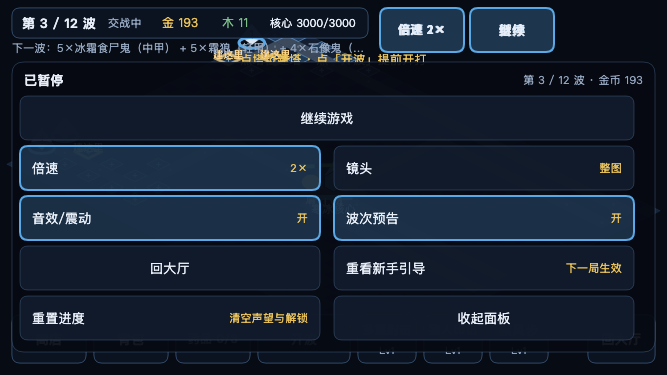
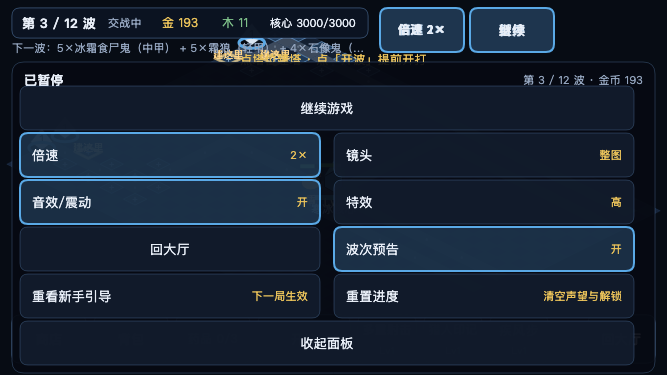
feat(minigame): 屏幕常亮 + §10.7 的内存告警降级（顺手把 effects 那一格补成真的）
两条「真机上会出事、本地不接也能跑」的：

- 屏幕常亮：一局 TD 十几分钟、盯塔时可能一直不碰屏幕，系统按默认超时锁屏。
  启动时 wx.setKeepScreenOn(true)（浏览器没有对应能力，安静跳过）
- 内存告警：§10.7 早就写好「告警来了自动降级」，浏览器版也接了 wx.onMemoryWarning，
  但小游戏入口从来没接——微信抛了没人理，后面就是直接杀进程。现在接到同一份设置上
  （settings.effects = 'low'）并提示一句

顺带把 §5.2.4 当时有意不摆的 effects 那一格补成真的：它真的关掉脉冲（§116 hintPulseAlpha），
面板里能看、也能从内存告警那一档改回来（不然自动降级是单行道）。面板排成 6 行（44+3，再松就出画布）。

假 wx 补 onMemoryWarning / setKeepScreenOn 记账 + canvas 记录样式赋值（脉冲差别只能从样式上看）。
用例 +1 闭环，两条变异反证。npm test 323 → 324；minigame 6 条全过；主包 18 模块 / 387.2 KB。

diff --git a/src/minigame/battle.js b/src/minigame/battle.js
@@ -484,12 +484,14 @@ export function layoutBag(m, ui = {}) {
 /**
  * 暂停面板（单机局才有意义：联机「不假装暂停」是 §114 那条口径；小游戏现在只有单机，所以这是真暂停）。
  *
- * 三个开关都**真的接在东西上**，不是摆样子：
- *   倍速　→ 帧循环按 1× / 2× 推内核；
- *   镜头　→ `settings.tdFitAll`（整图可见 / 放大到 settings.zoom），与浏览器版同一份设置；
- *   震动　→ `settings.sfx` 经 `feedback.js` 的 `wx.vibrateShort`（同一份设置里的那个开关）。
- * **没摆的两项**：`effects`（低特效档关的是飘字与脉冲，而小游戏这一版还没画飘字——摆了就是假选项）；
- * 音效那一半要等防守模式的预警音（TD 本来就没有提示音）。
+ * 每一格都**真的接在东西上**，不是摆样子：
+ *   倍速　　→ 帧循环按 1× / 2× 推内核；
+ *   镜头　　→ `settings.tdFitAll`（整图可见 / 放大到 settings.zoom），与浏览器版同一份设置（仅 TD）；
+ *   摇杆　　→ `settings.stick`（固定 / 浮动），仅防守（§1.9.3）；
+ *   音效/震动 → `settings.sfx`：提示音走 `audio.js`、短震动走 `feedback.js` 的 `wx.vibrateShort`；
+ *   特效　　→ `settings.effects`：低档关掉脉冲（新手引导塔位高亮的呼吸效果，§116）；
+ *   波次预告 / 自动拾取 → 各自模式专有的那一格（§154）。
+ * 行距 47（44 高 + 3 缝）是这一屏的**上限**：再松就放不下第 6 行了（333 起的「收起面板」会出画布）。
  */
 export function layoutPause(m, ui = {}) {
   const rows = [];
@@ -500,24 +502,32 @@ export function layoutPause(m, ui = {}) {
    * 反过来「摇杆固定 / 浮动」是防守专用的（TD 没有摇杆，§1.9.1）。两边各占同一个格。
    */
   const defense = m.mode === 'defense';
-  rows.push({ id: 'resume', label: '继续游戏', x: 20, y: 96, w: 614, h: 44, action: { type: 'resume' } });
+  rows.push({ id: 'resume', label: '继续游戏', x: 20, y: 86, w: 614, h: 44, action: { type: 'resume' } });
   rows.push({
     id: 'speed', label: '倍速', sub: ui.rate === 2 ? '2×' : '1×',
-    x: 20, y: 146, w: 300, h: 44, on: ui.rate === 2, action: { type: 'speed' },
+    x: 20, y: 133, w: 300, h: 44, on: ui.rate === 2, action: { type: 'speed' },
   });
   rows.push(defense
     ? {
       id: 'stick', label: '摇杆', sub: sv.stick === 'floating' ? '浮动' : '固定',
-      x: 334, y: 146, w: 300, h: 44, on: sv.stick === 'floating', action: { type: 'stick' },
+      x: 334, y: 133, w: 300, h: 44, on: sv.stick === 'floating', action: { type: 'stick' },
     }
     : {
       id: 'camera', label: '镜头', sub: sv.tdFitAll === false ? '放大' : '整图',
-      x: 334, y: 146, w: 300, h: 44, on: sv.tdFitAll === false, action: { type: 'camera' },
+      x: 334, y: 133, w: 300, h: 44, on: sv.tdFitAll === false, action: { type: 'camera' },
     });
   rows.push({
     // 这一格同时管**提示音**（§2.6 的回防预警）与短震动（§1.9.2），所以标签要与浏览器版一样写全
     id: 'sfx', label: '音效/震动', sub: sv.sfx === false ? '关' : '开',
-    x: 20, y: 196, w: 300, h: 44, on: sv.sfx !== false, action: { type: 'sfx' },
+    x: 20, y: 180, w: 300, h: 44, on: sv.sfx !== false, action: { type: 'sfx' },
+  });
+  /**
+   * 「特效」这一格现在**不是假选项**了：低档真的关掉脉冲（§116 的 `hintPulseAlpha`），
+   * 而且 §10.7 的内存告警会把这一档自动切过来——玩家得能看见、也能自己改回去。
+   */
+  rows.push({
+    id: 'effects', label: '特效', sub: sv.effects === 'low' ? '低' : '高',
+    x: 334, y: 180, w: 300, h: 44, on: sv.effects === 'low', action: { type: 'effects' },
   });
   /**
    * §154：这一格也按模式取舍——TD 摆「波次预告」（§8.3：开波前先看这一波是什么），
@@ -526,24 +536,24 @@ export function layoutPause(m, ui = {}) {
   rows.push(defense
     ? {
       id: 'autoPickup', label: '自动拾取', sub: sv.autoPickup === false ? '关' : '开',
-      x: 334, y: 196, w: 300, h: 44, on: sv.autoPickup !== false, action: { type: 'autoPickup' },
+      x: 334, y: 227, w: 300, h: 44, on: sv.autoPickup !== false, action: { type: 'autoPickup' },
     }
     : {
       id: 'wavePreview', label: '波次预告', sub: sv.showWavePreview === false ? '关' : '开',
-      x: 334, y: 196, w: 300, h: 44, on: sv.showWavePreview !== false, action: { type: 'wavePreview' },
+      x: 334, y: 227, w: 300, h: 44, on: sv.showWavePreview !== false, action: { type: 'wavePreview' },
     });
-  rows.push({ id: 'lobby', label: '回大厅', x: 20, y: 246, w: 300, h: 44, action: { type: 'lobby' } });
+  rows.push({ id: 'lobby', label: '回大厅', x: 20, y: 227, w: 300, h: 44, action: { type: 'lobby' } });
   // §153 的「重看」：门槛只认 `profile.tutorialDone` 这一个标记，「重看」就是把它置回 false（下一局再挂）
   rows.push({
-    id: 'replayTutorial', label: '重看新手引导', sub: '下一局生效', x: 334, y: 246, w: 300, h: 44,
+    id: 'replayTutorial', label: '重看新手引导', sub: '下一局生效', x: 20, y: 274, w: 300, h: 44,
     action: { type: 'replayTutorial' },
   });
   // 「重置进度」与「收起面板」并排放在最后一行：前者不可逆（§1.9.2），所以点一次只转到「再点一次确认」
   rows.push({
     id: 'resetProgress', label: ui.resetArmed ? '再点一次确认重置' : '重置进度', sub: ui.resetArmed ? '' : '清空声望与解锁',
-    x: 20, y: 296, w: 300, h: 44, on: !!ui.resetArmed, action: { type: 'resetProgress' },
+    x: 334, y: 274, w: 300, h: 44, on: !!ui.resetArmed, action: { type: 'resetProgress' },
   });
-  rows.push({ id: 'close', label: '收起面板', x: 334, y: 296, w: 300, h: 44, action: { type: 'close' } });
+  rows.push({ id: 'close', label: '收起面板', x: 20, y: 321, w: 614, h: 44, action: { type: 'close' } });
   return {
     kind: 'pause',
     title: '已暂停',
@@ -552,7 +562,7 @@ export function layoutPause(m, ui = {}) {
     hint: defense
       ? `第 ${m.assault?.round ?? 0} 轮 · 金币 ${Math.round(m.gold)}`
       : `第 ${m.wave.index} / ${m.length === 'long' ? 30 : 12} 波 · 金币 ${Math.round(m.gold)}`,
-    box: { x: 12, y: 62, w: 643, h: 290 },
+    box: { x: 12, y: 62, w: 643, h: 311 },
     rows, byId: Object.fromEntries(rows.map((r) => [r.id, r])),
   };
 }

diff --git a/src/minigame/game.js b/src/minigame/game.js
@@ -10,7 +10,9 @@ import {
   enhanceItem, potionCount, repairTower, reviveNow, sellItem, sellTower, setPriority, skillLevel,
   startWaveEarly, towerAtSlot, update, upgradeTower, usePotion,
 } from '../match.js';
-import { isMiniGame, onHide, onTouch, storage, viewport } from '../platform.js';
+import {
+  isMiniGame, keepScreenOn, onHide, onMemoryWarning, onTouch, storage, viewport,
+} from '../platform.js';
 import { clearSave, hasSave, loadFromStorage, saveToStorage } from '../save.js';
 import {
   clearProfile, isFirstRun, loadProfile, mapLocked, markTutorialDone, recordResult, reviveMulOf, saveProfile,
@@ -117,6 +119,22 @@ export function startMinigame({ requestAnimationFrame: raf = globalThis.requestA
    * 同一个 `settings.sfx` 开关管着它和震动（浏览器版那颗开关的标签就是「音效/震动」）。
    */
   const cue = createCue({ enabled: () => settings.sfx !== false });
+  /**
+   * 玩的时候别让屏幕自己熄掉：一局 TD 十几分钟，盯塔的时候可能一直不碰屏幕，
+   * 系统按默认超时锁屏比任何 bug 都劝退（小游戏里是 `wx.setKeepScreenOn`）。
+   */
+  keepScreenOn(true);
+  /**
+   * §10.7 的内存告警：微信在内存吃紧时抛 `wx.onMemoryWarning`，接了才有机会主动降级——
+   * 与浏览器版**同一套设置**（`settings.effects = 'low'`：关掉脉冲那类装饰，保住帧率），
+   * 并且提示一句，别让玩家以为画面坏了。
+   */
+  onMemoryWarning(() => {
+    const before = settings.effects;
+    settings = { ...settings, effects: 'low' };
+    try { saveSettings(settings); } catch { /* 存不了就只在这一次生效 */ }
+    if (before !== 'low' && battle) note(battle, '内存告警：已切到低特效（可在暂停面板里改回）', 3);
+  });
 
   /** 镜头设置（§2.5）：整图可见 = `renderer.fit()`；放大 = 以核心为中心用 `settings.zoom` */
   const applyCamera = (b) => {
@@ -563,6 +581,13 @@ export function startMinigame({ requestAnimationFrame: raf = globalThis.requestA
         note(b, settings.showWavePreview ? '波次预告已开' : '波次预告已关', 1.4);
         return action;
       }
+      case 'effects': {
+        // §116 的低特效档：关掉脉冲那类装饰（保帧率）。§10.7 的内存告警也会把它自动切过来
+        settings = { ...settings, effects: settings.effects === 'low' ? 'high' : 'low' };
+        saveSettings(settings);
+        note(b, settings.effects === 'low' ? '特效：低（关脉冲）' : '特效：高', 1.4);
+        return action;
+      }
       case 'autoPickup': {
         // §12.5：防守走到掉落物上自动捡。内核读的是 `m.autoPickup`，所以改了要**立刻**写进去
         settings = { ...settings, autoPickup: settings.autoPickup === false };
@@ -829,7 +854,9 @@ export function startMinigame({ requestAnimationFrame: raf = globalThis.requestA
       b.layout = layoutBattle(model);
       // `hintSlots`：引导第一步/第二步在战场上圈出「建这里」（render.js 本来就有这段，直接复用）
       b.renderer.draw({
-        m: b.m, selectedSlot: null, selectedTower: null, localSlot: 0, now: b.m.time, pulses: false,
+        // §116：低特效档关掉脉冲（新手引导塔位高亮那层呼吸）；高档才让它随时间变化
+        m: b.m, selectedSlot: null, selectedTower: null, localSlot: 0, now: b.m.time,
+        pulses: settings.effects !== 'low',
         hintSlots: b.tutorial?.hintSlotCount() ?? 0,
       });
       // renderer 可能重设过变换，这里再对齐一次（并按大屏把 HUD 居中）

diff --git a/src/platform.js b/src/platform.js
@@ -184,6 +184,27 @@ export function onHide(fn) {
   }
 }
 
+/**
+ * §10.7 的**内存告警**：微信在内存吃紧时会抛 `wx.onMemoryWarning`，接了它就有机会主动降级；
+ * 不接的话系统只会在后面直接杀掉进程。浏览器没有这个事件（那边留了
+ * `__frostfall.simulateMemoryWarning()` 给冒烟用），所以这里安静跳过。
+ */
+export function onMemoryWarning(fn) {
+  try { wxApi()?.onMemoryWarning?.(fn); } catch { /* 老基础库没有这个 API：只是少一层保护 */ }
+}
+
+/**
+ * 玩的时候别让屏幕自己熄掉（小游戏里是 `wx.setKeepScreenOn`）。
+ * 一局 TD 十几分钟、盯塔的时候可能一直不碰屏幕，系统照默认超时锁屏——那比任何 bug 都劝退。
+ * 浏览器没有对应能力（页面自己不动），安静跳过。
+ */
+export function keepScreenOn(on = true) {
+  try {
+    if (isMiniGame() && wxApi()?.setKeepScreenOn) wxApi().setKeepScreenOn({ keepScreenOn: on });
+    return true;
+  } catch { return false; }
+}
+
 /* ---------- 触摸 ---------- */
 
 /**

diff --git a/docs/STATUS.md b/docs/STATUS.md
@@ -21,7 +21,7 @@
 ## 2. 一条命令复跑全部验证
 
 ```bash
-npm test        # 323 项：数值 / 波次 / 经济 / 装备 / 天赋 / 技能细节 / 存档 / 联机 / 快速匹配 / 触觉反馈 / 摇杆指令 / 溅射衰减 / 药品计数 / 解锁来源与流水 / 野外区分区 / 亚格渲染 / 克制提示 / 局内资源不外流 / 仇恨 1 秒 / 野外区文案 / 战绩分模式 / 面板可见性 / 浮层收起 / 房间码提示 / 空房保留窗口 / 联机指令出口（handler 逐个查）/ 畸形指令与限速 / 克制表与枚举对齐 / 联机镜像不落本地存档（§113） / 大厅按模式给选项（§115：防守没有「局内时长」） / 低特效档真的关脉冲（§116） / 怪物光环按半径结算（§117） / Boss 光环按地图开关（§118） / 逻辑帧步长只有一个定义（§119） / 协议版本两侧校验（§120） / 畸形 URL 参数不崩服务端（§121） / 别人的名字不执行（§122） / 名字长度截断（§122） / 畸形指令值不崩服务端（§123） / 房间码不可枚举（§124） / 名单不广播 uid（§125） / 调试钩子默认关（§126）与「只在本地生效」（§197）/  免费期无付费入口（§128） / 联机结算面板也写「声望 +N」（§130） / 通关转无尽的出口（§131） / 精研技能书真的 +1 级（§132） / 狂战药剂真的持续 30 秒（§133） / 防守模式 buff 生效与疾风步移速（§134） / 两模式英雄 tick 职责对齐（§135） / 亡语分裂在防守里也生效（§136） / 防守的怪也吃减速眩晕 DoT（§137） / 防守内容不许带未实现能力（§138） / 「继续上局」只在**真读得出来**时出现（§139 + §204） /  **疾行药剂在两个模式都生效（§144） / **回城冷却进存档且真的走满 30 秒（§147） / **联机修塔真的生效、TD 专属指令在防守房被拒（§148） / **联机结算的伤害占比不为空、防守占比条写中文名（§149） / **结算面板的掉落栏写中文名（§151） / **快速匹配排队时写明「在等」（§152） / **新手引导的门槛与「重看」（§153） / **文案里的数字与数据表对账（§155） / ****临时端口串门与僵尸根因（§157）** / **4★-6★ 图能从大厅选到（§158） / **真机视口下大厅动作行粘底（§159） / **结算面板出口也粘底（§160） / **真机视口下防守 HUD 紧凑排布（§161） / **真机视口下引导条不压操作行（§162） / **联机长局镜像换成 30 波表（§163）/**§130 偶发红改成确定性（§164） / **联机怪物血条分母（§165）** / **联机房英雄职业进配置（§166）** / **浸泡不变量补五项（§167） / **真机视口下防守人体工学（§168）** / **§2.2 地图表逐列对账（§169） / **其余五张数值表逐列对账（§170） / **真机上的双指缩放与双击回核心（§171） / **把量出的偏差写回设计文档（§172） / **复跑三张数字表（§173） / **协议消息类型两边都要有人用（§174） / **零读者的导出扫干净（§175）** / **用到的 class 都有样式规则（§176）** / **客户端开局参数归一化（§177：坏 URL 不白屏 + 不污染档案）** / **缺 seed 的房间不再是常数种子（§177）** / **提示音在真机手势里解锁、日志不再谎报（§178）** / **真机手势卫生：连点技能键/长按不再被浏览器抢走（§180）** / **HUD 按安全区收边、不再压进刘海（§181）** / **冒烟的 CDP 请求加上限、不再偶发挂死（§182）** / **存不了档时说一声（§183）** / **大厅里不再偷偷打那一局（§184：不跑模拟、不出怪、不记档）** / **竖屏兜底「请横屏」（§185）**…
+npm test        # 324 项：数值 / 波次 / 经济 / 装备 / 天赋 / 技能细节 / 存档 / 联机 / 快速匹配 / 触觉反馈 / 摇杆指令 / 溅射衰减 / 药品计数 / 解锁来源与流水 / 野外区分区 / 亚格渲染 / 克制提示 / 局内资源不外流 / 仇恨 1 秒 / 野外区文案 / 战绩分模式 / 面板可见性 / 浮层收起 / 房间码提示 / 空房保留窗口 / 联机指令出口（handler 逐个查）/ 畸形指令与限速 / 克制表与枚举对齐 / 联机镜像不落本地存档（§113） / 大厅按模式给选项（§115：防守没有「局内时长」） / 低特效档真的关脉冲（§116） / 怪物光环按半径结算（§117） / Boss 光环按地图开关（§118） / 逻辑帧步长只有一个定义（§119） / 协议版本两侧校验（§120） / 畸形 URL 参数不崩服务端（§121） / 别人的名字不执行（§122） / 名字长度截断（§122） / 畸形指令值不崩服务端（§123） / 房间码不可枚举（§124） / 名单不广播 uid（§125） / 调试钩子默认关（§126）与「只在本地生效」（§197）/  免费期无付费入口（§128） / 联机结算面板也写「声望 +N」（§130） / 通关转无尽的出口（§131） / 精研技能书真的 +1 级（§132） / 狂战药剂真的持续 30 秒（§133） / 防守模式 buff 生效与疾风步移速（§134） / 两模式英雄 tick 职责对齐（§135） / 亡语分裂在防守里也生效（§136） / 防守的怪也吃减速眩晕 DoT（§137） / 防守内容不许带未实现能力（§138） / 「继续上局」只在**真读得出来**时出现（§139 + §204） /  **疾行药剂在两个模式都生效（§144） / **回城冷却进存档且真的走满 30 秒（§147） / **联机修塔真的生效、TD 专属指令在防守房被拒（§148） / **联机结算的伤害占比不为空、防守占比条写中文名（§149） / **结算面板的掉落栏写中文名（§151） / **快速匹配排队时写明「在等」（§152） / **新手引导的门槛与「重看」（§153） / **文案里的数字与数据表对账（§155） / ****临时端口串门与僵尸根因（§157）** / **4★-6★ 图能从大厅选到（§158） / **真机视口下大厅动作行粘底（§159） / **结算面板出口也粘底（§160） / **真机视口下防守 HUD 紧凑排布（§161） / **真机视口下引导条不压操作行（§162） / **联机长局镜像换成 30 波表（§163）/**§130 偶发红改成确定性（§164） / **联机怪物血条分母（§165）** / **联机房英雄职业进配置（§166）** / **浸泡不变量补五项（§167） / **真机视口下防守人体工学（§168）** / **§2.2 地图表逐列对账（§169） / **其余五张数值表逐列对账（§170） / **真机上的双指缩放与双击回核心（§171） / **把量出的偏差写回设计文档（§172） / **复跑三张数字表（§173） / **协议消息类型两边都要有人用（§174） / **零读者的导出扫干净（§175）** / **用到的 class 都有样式规则（§176）** / **客户端开局参数归一化（§177：坏 URL 不白屏 + 不污染档案）** / **缺 seed 的房间不再是常数种子（§177）** / **提示音在真机手势里解锁、日志不再谎报（§178）** / **真机手势卫生：连点技能键/长按不再被浏览器抢走（§180）** / **HUD 按安全区收边、不再压进刘海（§181）** / **冒烟的 CDP 请求加上限、不再偶发挂死（§182）** / **存不了档时说一声（§183）** / **大厅里不再偷偷打那一局（§184：不跑模拟、不出怪、不记档）** / **竖屏兜底「请横屏」（§185）**…
 npm run soak    # 180 局全组合浸泡：运行期不变量 + 存档不动点 + 客户端镜像一致性
 npm run smoke   # 378 条真浏览器断言（**三个视口**、十一个面；含快速匹配、内存告警降级、真按下的短震动链路、防守摇杆拖动、点空地的塔位提示、克制提示与护甲预告、野外区掉落加成、防守战绩口径、日志面板让位/恢复、跨局浮层收起、攻城图的修塔按钮、秘传技能书的技能栏变化、优先级/速度/围墙/重置进度、HUD 数值跟随（7+3 处）、塔面板 X 与标题、再开一局、长局 30 波 HUD、真机视口下的轮盘/塔面板、房间码提示与镜像对齐、进不去房间转单人继续、被动掉线自动重连、**六条联机指令真的到服务端**、**§113 联机点「回大厅/再开一局」真的离房**、**§114 联机不假装暂停/加速、掉线写清 5 分钟**/**§115 防守模式不摆「局内时长」假选项**/**§116 低特效档真的关脉冲**/**§145 每次版式体检都查「两块 HUD 浮层不许叠在一起」**/**§153 新手引导门槛与「重看」（§153）/**设置面板按模式取舍选项（§154）/**文案里的数字与数据表对账（§155）**/**临时端口串门与僵尸根因（§157）/**4★-6★ 图能从大厅选到（§158）/**真机视口下大厅动作行粘底（§159）/**结算面板出口也粘底（§160）**/**真机视口下防守 HUD 紧凑排布（§161）**/**真机视口下引导条不压操作行（§162）/**联机长局镜像换成 30 波表（§163）/**§130 偶发红改成确定性（§164）/**联机怪物血条分母（§165）**/**联机房英雄职业进配置（§166）**/**浸泡不变量补五项（§167）/**真机视口下防守人体工学（§168）**/**§2.2 地图表逐列对账（§169）/**其余五张数值表逐列对账（§170）/**真机上的双指缩放与双击回核心（§171）**/**客户端坏 URL 不白屏（§177）**/**提示音在真机策略下真的响了（§178）**/**真机手势卫生（§180）**/**HUD 不进刘海安全区（§181）**/**大厅不跑模拟（§184）**/**竖屏有「请横屏」兜底（§185）**/**低端 4G 模拟下首屏 ≤3 秒（§186）** / **「再开一局」连打的第二局也记档（§188）** / **浏览器里真的把 12 波打完、结算与档案都对（§189）** / **防守也真的守满 4 轮；城堡陷落后「继续（无尽）」不再挂着（§190）** / **长局 30 波也在浏览器里真的打完（§191，含一条参考打法在 4★ 长局末波输掉的观测）** / **中途加入已在打的房（§192）** / **§130 那条「声望 +N」的偶发红改成确定性（§193：根因是房间空着时就记了结算）** / **`sim` 调试钩子只在本地生效（§197：补上 §126 那条「非 URL 开关」的规矩）** / **连打不涨：6 局 DOM/堆都平，并把「每局不长 DOM」钉进冒烟（§198）** / **服务端不再攒退役房间（§199：删掉只写不读的 `stopped` 表）** / **画布内容与「画面在动」也有检查了（§200–§202）** / **第三个视口 568×320（§203）** / **「能读的才算有存档」补齐后半（§204）** / **档案形状归一化（§205）** / **日志面板的 innerHTML 先转义（§206：那一处最容易新增玩家名字）**
 npm run waves   # §8.5 逐波余量（4 人基准）
@@ -194,7 +194,7 @@ npm run bench / bandwidth   # 容量 / 带宽预算（§110/§111：两个工具
 |---|---|---|---|
 | 1 | **按 `game-design.md` 的已确认需求开发** | ✅ | 设计文档里**打勾的验收清单**逐条有实现与检查（见 §1 那张表）；**所有数值表逐列对过账**（§169/§170，改一处就红）；**原「等拍板」的 33 条已全部拍板并落地**（§3.1 + 验证记录 §207–§209；文档类的 20 条在附录 B/C 与对应小节补了口径） |
 | 2 | **一直开发到能玩为止** | ✅ | 浏览器里**真的**跑通过整条链路：TD 短局通关（§189：7.4 分钟、结算面板、记档、解锁 map_02）、防守守满 4 轮转无尽（§190）、**长局 30 波**（§191：32.5 分钟）；联机建房 / 快速匹配 / 中途加入第 3 波（§192）/ 掉线重连 / 离场（§102/§113/§114）；三个视口（1334×750 / 667×375 / **568×320**）的版式与人体工学（§203、§145）；手机竖屏有「请横屏」兜底（§185） |
-| 3 | **自己去验证错误** | ✅ | 验证记录 **§1–§238**：每条发现都带「一个能失败的检查」+ 变异反证；最新一轮全量复跑：`npm test` **323 项** · `npm run smoke` **378 条**（三个视口、十一个面）· `soak` 180 局（119 胜 61 负，不变量一条没破）· `matrix` 全绿（**并检查首发三图普通档 8-12 分钟**）· `defense` 12.7 分钟/4 轮 · `waves` 12/12 · `defense-matrix` 36 局守住 22（**验收线 8 格全过**）· `bandwidth` 6.61 KB/s（预算 15）· `bench` 1699k 实体·帧/秒 · `tutorial` 3/3 达标 |
+| 3 | **自己去验证错误** | ✅ | 验证记录 **§1–§239**：每条发现都带「一个能失败的检查」+ 变异反证；最新一轮全量复跑：`npm test` **324 项** · `npm run smoke` **378 条**（三个视口、十一个面）· `soak` 180 局（119 胜 61 负，不变量一条没破）· `matrix` 全绿（**并检查首发三图普通档 8-12 分钟**）· `defense` 12.7 分钟/4 轮 · `waves` 12/12 · `defense-matrix` 36 局守住 22（**验收线 8 格全过**）· `bandwidth` 6.61 KB/s（预算 15）· `bench` 1699k 实体·帧/秒 · `tutorial` 3/3 达标 |
 
 **仍然在别人手里的（不是欠债，是等输入）**：
 

diff --git a/README.md b/README.md
@@ -12,7 +12,7 @@
 M0.5 可玩原型（TD 塔防首发切片）：等距伪 3D 横屏战场、12 波、4 种塔各 3 级、4 英雄（含 2 主动技 + 技能书解锁第 3 技）、9 种怪物、装备掉落与一键合成、商店与药品、暂停与加速。
 
 ```bash
-npm test        # 323 项（含小游戏打包产物的检查）：数值 / 波次 / 经济 / 人数缩放（§1.6：怪量·生命·金币，联机房按名册定档）/ 地形（§2.3：岩浆挡弹道、沼泽减速与射程 −1、高地射程 +1.5 攻击 +10%）/ 难度四列（§2.4：生命·攻击·出怪速度·掉落）/ 局外人物等级（初始金币 + 复活加速）/ 武器 4 类（单体/群伤/减速/对空，特性真的生效）· 装备（主属性与词条真的进战斗 · 强化 +1..+5 · 自由换装 · 出售返还）/ DPS 线（裸装 ≤2.5 座塔 + **满装 ≤4 座**，§3.1 #3）/ 掉落节奏（含橙装来源拆账）/ 概率上限与闪避 / 容错率 / 整局 / 天赋接线（钢铁意志·咒术精通·法力涌动）/ 技能细节（制裁之锤对 Boss 眩晕减半、猎人印记加成英雄普攻）/ 商店（3 格背包·波次中读条 3 秒·回城卷轴·**防守商店只在基地内**〔§3.1 #14〕·群疗符禁售〔#20〕）/ 指令表双向对齐（含 **`leave`**）/ 主动退房与掉线的区别（§3.1 #23）/ 设备级 token：冒用 uid 被拒 + 本机换身份重连（§3.1 #24）/ **深链进锁着的图按档案归一化**（§3.1 #29）/ 中途加入窗口（§12.3）/ 快速匹配（§1.5：分桶·满员即开·45 秒窗口）/ 攻击优先级（§8.3 四种模式）/ 克制提示（§3.8·§6.2：提示由克制表算出）/ 克制表与枚举对齐（§6.2）/ 实体传送点（§2.6）/ 上次配置一键开局（§2.1） / 局内资源不外流（§12.6）/ 战绩分模式（§12.6：TD 最快通关 / 防守守住轮次）/ 仇恨 1 秒窗口（§7.7：脱离后还要被追打 1 秒）/ 野外区文案（§2.6：区名 + 等级段 + 掉落加成）/ 面板可见性（§14.3：日志让位由 CSS 表达）/ 跨局浮层收起（§95：开新局前收掉轮盘与塔面板）/ 房间码没命中的提示与房间配置对齐（§1.5 / §102）/ 空房保留 5 分钟边界（§10.3）/ 联机指令出口（§10.1：键盘与按钮同一条路，且每个 handler 都有 net 分支）/ 畸形指令与限速（§12.7 / §108）/ 防守摇杆指令（§1.9.1·§10.1：目标格算法 + 贴墙退化）/ 溅射距离衰减（§7.1：落点 100% → 边缘 50%）/ 野外区分区掉落（§2.6·§12.8：dropBonus）/ 解锁来源与货币流水（§1.7.3）/ 亚格渲染（§10.3：怪与人物按 dist/carry 画，不再跳格）/ 快照序号与补发（§10.3 序号跳跃 → 请求全量） / 渲染（相机·小地图·地图缩略图）/ HUD / 联机 / 带宽 / 重连 / 存档 / 解锁 / 队伍色 / 预测 / 性能护栏 / 不卡死（每局都必须能结束）/ 复活保护 / 触觉反馈 / 药品计数（§5.5） / 联机镜像不落本地存档（§113） / 大厅按模式给选项（§115：防守没有「局内时长」） / 低特效档真的关脉冲（§116） / 怪物光环按半径结算（§117） / Boss 光环按地图开关（§118） / 逻辑帧步长只有一个定义（§119） / 协议版本两侧校验（§120） / 畸形 URL 参数不崩服务端（§121） / 别人的名字不执行（§122） / 名字长度截断（§122） / 畸形指令值不崩服务端（§123） / 房间码不可枚举（§124） / 名单不广播 uid（§125） / 调试钩子默认关（§126） / 免费期无付费入口（§128） / 联机结算面板也写「声望 +N」（§130） / 通关转无尽的出口（§131） / 精研技能书真的 +1 级（§132） / 狂战药剂真的持续 30 秒（§133） / 防守模式 buff 生效与疾风步移速（§134） / 两模式英雄 tick 职责对齐（§135） / 亡语分裂在防守里也生效（§136） / 防守的怪也吃减速眩晕 DoT（§137） / 防守内容不许带未实现能力（§138） / **疾行药剂在两个模式都生效（§144）** / **回城冷却进存档且真的走满 30 秒（§147）** / **联机修塔真的生效、TD 专属指令在防守房被拒（§148） / **联机结算的伤害占比不为空、防守占比条写中文名（§149） / **结算面板的掉落栏写中文名（§151） / **快速匹配排队时写明「在等」（§152） / **新手引导的门槛与「重看」（§153）** / **设置面板按模式取舍选项（§154）** / **文案里的数字与数据表对账（§155） / ****临时端口串门与僵尸 npm test 的根因（§157）** / **4★-6★ 图能从大厅选到（§158） / **真机视口下大厅动作行粘底（§159） / **结算面板出口也粘底（§160） / **真机视口下防守 HUD 换紧凑排布（§161） / **真机视口下引导条不压操作行（§162） / **联机长局的镜像换成 30 波表（§163） / **§130 偶发红改成确定性（§164） / **联机怪物血条的分母由服务端给（§165） / **联机房的英雄职业也进配置（§166） / **浸泡的不变量补五项（§167） / **真机视口下防守人体工学也量了（§168） / **§2.2 地图表逐列对账（§169） / **其余五张数值表逐列对账（§170） / **真机上的双指缩放与双击回核心（§171） / **把量出的偏差写回设计文档（§172） / **复跑三张数字表（§173） / **协议消息类型两边都要有人用（§174） / **零读者的导出扫干净（§175）** / **用到的 class 都有样式规则（§176）** / **客户端开局参数归一化：坏 URL 不再白屏、不再污染档案（§177）** / **提示音在真机手势里解锁、日志不再谎报（§178）** / **真机手势卫生：连点技能键不再触发双击缩放（§180）** / **HUD 不再压进刘海（§181：按 `env(safe-area-inset-*)` 收边）** / **存不了档时说一声（§183）** / **大厅里不再偷偷打那一局（§184：不跑模拟、不记档）** / **竖屏兜底「请横屏」（§185）**
+npm test        # 324 项（含小游戏打包产物的检查）：数值 / 波次 / 经济 / 人数缩放（§1.6：怪量·生命·金币，联机房按名册定档）/ 地形（§2.3：岩浆挡弹道、沼泽减速与射程 −1、高地射程 +1.5 攻击 +10%）/ 难度四列（§2.4：生命·攻击·出怪速度·掉落）/ 局外人物等级（初始金币 + 复活加速）/ 武器 4 类（单体/群伤/减速/对空，特性真的生效）· 装备（主属性与词条真的进战斗 · 强化 +1..+5 · 自由换装 · 出售返还）/ DPS 线（裸装 ≤2.5 座塔 + **满装 ≤4 座**，§3.1 #3）/ 掉落节奏（含橙装来源拆账）/ 概率上限与闪避 / 容错率 / 整局 / 天赋接线（钢铁意志·咒术精通·法力涌动）/ 技能细节（制裁之锤对 Boss 眩晕减半、猎人印记加成英雄普攻）/ 商店（3 格背包·波次中读条 3 秒·回城卷轴·**防守商店只在基地内**〔§3.1 #14〕·群疗符禁售〔#20〕）/ 指令表双向对齐（含 **`leave`**）/ 主动退房与掉线的区别（§3.1 #23）/ 设备级 token：冒用 uid 被拒 + 本机换身份重连（§3.1 #24）/ **深链进锁着的图按档案归一化**（§3.1 #29）/ 中途加入窗口（§12.3）/ 快速匹配（§1.5：分桶·满员即开·45 秒窗口）/ 攻击优先级（§8.3 四种模式）/ 克制提示（§3.8·§6.2：提示由克制表算出）/ 克制表与枚举对齐（§6.2）/ 实体传送点（§2.6）/ 上次配置一键开局（§2.1） / 局内资源不外流（§12.6）/ 战绩分模式（§12.6：TD 最快通关 / 防守守住轮次）/ 仇恨 1 秒窗口（§7.7：脱离后还要被追打 1 秒）/ 野外区文案（§2.6：区名 + 等级段 + 掉落加成）/ 面板可见性（§14.3：日志让位由 CSS 表达）/ 跨局浮层收起（§95：开新局前收掉轮盘与塔面板）/ 房间码没命中的提示与房间配置对齐（§1.5 / §102）/ 空房保留 5 分钟边界（§10.3）/ 联机指令出口（§10.1：键盘与按钮同一条路，且每个 handler 都有 net 分支）/ 畸形指令与限速（§12.7 / §108）/ 防守摇杆指令（§1.9.1·§10.1：目标格算法 + 贴墙退化）/ 溅射距离衰减（§7.1：落点 100% → 边缘 50%）/ 野外区分区掉落（§2.6·§12.8：dropBonus）/ 解锁来源与货币流水（§1.7.3）/ 亚格渲染（§10.3：怪与人物按 dist/carry 画，不再跳格）/ 快照序号与补发（§10.3 序号跳跃 → 请求全量） / 渲染（相机·小地图·地图缩略图）/ HUD / 联机 / 带宽 / 重连 / 存档 / 解锁 / 队伍色 / 预测 / 性能护栏 / 不卡死（每局都必须能结束）/ 复活保护 / 触觉反馈 / 药品计数（§5.5） / 联机镜像不落本地存档（§113） / 大厅按模式给选项（§115：防守没有「局内时长」） / 低特效档真的关脉冲（§116） / 怪物光环按半径结算（§117） / Boss 光环按地图开关（§118） / 逻辑帧步长只有一个定义（§119） / 协议版本两侧校验（§120） / 畸形 URL 参数不崩服务端（§121） / 别人的名字不执行（§122） / 名字长度截断（§122） / 畸形指令值不崩服务端（§123） / 房间码不可枚举（§124） / 名单不广播 uid（§125） / 调试钩子默认关（§126） / 免费期无付费入口（§128） / 联机结算面板也写「声望 +N」（§130） / 通关转无尽的出口（§131） / 精研技能书真的 +1 级（§132） / 狂战药剂真的持续 30 秒（§133） / 防守模式 buff 生效与疾风步移速（§134） / 两模式英雄 tick 职责对齐（§135） / 亡语分裂在防守里也生效（§136） / 防守的怪也吃减速眩晕 DoT（§137） / 防守内容不许带未实现能力（§138） / **疾行药剂在两个模式都生效（§144）** / **回城冷却进存档且真的走满 30 秒（§147）** / **联机修塔真的生效、TD 专属指令在防守房被拒（§148） / **联机结算的伤害占比不为空、防守占比条写中文名（§149） / **结算面板的掉落栏写中文名（§151） / **快速匹配排队时写明「在等」（§152） / **新手引导的门槛与「重看」（§153）** / **设置面板按模式取舍选项（§154）** / **文案里的数字与数据表对账（§155） / ****临时端口串门与僵尸 npm test 的根因（§157）** / **4★-6★ 图能从大厅选到（§158） / **真机视口下大厅动作行粘底（§159） / **结算面板出口也粘底（§160） / **真机视口下防守 HUD 换紧凑排布（§161） / **真机视口下引导条不压操作行（§162） / **联机长局的镜像换成 30 波表（§163） / **§130 偶发红改成确定性（§164） / **联机怪物血条的分母由服务端给（§165） / **联机房的英雄职业也进配置（§166） / **浸泡的不变量补五项（§167） / **真机视口下防守人体工学也量了（§168） / **§2.2 地图表逐列对账（§169） / **其余五张数值表逐列对账（§170） / **真机上的双指缩放与双击回核心（§171） / **把量出的偏差写回设计文档（§172） / **复跑三张数字表（§173） / **协议消息类型两边都要有人用（§174） / **零读者的导出扫干净（§175）** / **用到的 class 都有样式规则（§176）** / **客户端开局参数归一化：坏 URL 不再白屏、不再污染档案（§177）** / **提示音在真机手势里解锁、日志不再谎报（§178）** / **真机手势卫生：连点技能键不再触发双击缩放（§180）** / **HUD 不再压进刘海（§181：按 `env(safe-area-inset-*)` 收边）** / **存不了档时说一声（§183）** / **大厅里不再偷偷打那一局（§184：不跑模拟、不记档）** / **竖屏兜底「请横屏」（§185）**
 npm run selfplay  # 无头打一整局，打印每波推进与结算（默认 4 人基准；FF_PLAYERS=1 切单人档，§1.6）
 npm run bandwidth # 带宽实测（默认 8 秒，可传秒数）
 npm run bench     # 容量实测（默认 200 实体 × 600 tick；§111 起：过程里场上掉到目标的 90% 以下就 exit 1，不再拿空场的吞吐当结论）

diff --git a/docs/testing/m0.5-td-prototype.md b/docs/testing/m0.5-td-prototype.md
@@ -9557,3 +9557,46 @@ TD 那边钉一句反向断言：「TD 的 HUD 上不该有小地图」（它是
 
 `npm test` 322 → **323 项** · `npm run minigame` 6 条全过 · 主包 18 个模块 / 384.0 KB（4MB 上限的 9.4%）·
 样张重出（`minigame-pause.png` 多了这一行）· 浏览器侧一行没动。
+
+## 239. 小游戏的两条平台杂项：屏幕常亮、§10.7 的内存告警降级
+
+接着量「真机上会出事、但本地不接也能跑」的那一类，抓到两条：
+
+### 239.1 屏幕会自己熄掉
+
+一局 TD 十几分钟，盯塔的时候玩家可能一直不碰屏幕——系统按默认超时锁屏（比任何 bug 都劝退）。
+小游戏的标准做法是 `wx.setKeepScreenOn({ keepScreenOn: true })`，所以启动时申请一次
+（浏览器没有对应能力，`keepScreenOn()` 里安静跳过）。
+
+### 239.2 内存告警没人接 = 等系统来杀
+
+§10.7 早就写好「内存告警来了自动降级、不崩」，浏览器版也接了（`wx.onMemoryWarning` → 低特效），
+但**小游戏的入口从来没接过**：微信在内存吃紧时抛事件，没人理，后面就是直接杀进程。
+现在接到与浏览器版同一份设置上（`settings.effects = 'low'`），并提示一句
+「内存告警：已切到低特效（可在暂停面板里改回）」。
+
+顺手补了 §5.2.4 当时**有意不摆**的 `effects` 那一格：那时小游戏不画飘字，低特效档没东西可关，
+摆了就是假选项（§115 的口径）。现在它真的关掉脉冲（§116 的 `hintPulseAlpha`），
+所以既能显示、也能让玩家从内存告警那一档改回来——不然自动降级就是一条单行道。
+面板因此从 5 行排成 6 行（行距 44+3，再松一点「收起面板」就出画布了）。
+
+### 239.3 检查
+
+`tests/minigame-battle.test.js` 一条闭环：启动时调了 `setKeepScreenOn(true)`、
+`onMemoryWarning` 真的接上了（这两条是前提）→ 渲染器拿到 `pulses: true` → 抛一次内存告警 →
+设置落盘成低特效、再画一帧拿到 `pulses: false`、HUD 上有那句提示 → 暂停面板里显示「低」→
+点一下切回「高」、脉冲跟着回来。
+
+假 `wx` 也补了两样：`onMemoryWarning` / `setKeepScreenOn` 的记账（含 `fireMemoryWarning()`），
+以及 canvas 记录 `strokeStyle` / `fillStyle` / `globalAlpha` 的赋值——「脉冲开没开」这种差别
+只能从样式上看出来（画法调用名是一样的）。
+
+| 变异 | 结果 |
+|---|---|
+| 拿掉常亮与告警接线 | 红在「启动要申请屏幕常亮（实际 []）」 |
+| 把 `pulses` 写死成 false | 红在「默认是高档：脉冲开着」 |
+
+### 239.4 数字
+
+`npm test` 323 → **324 项** · `npm run minigame` 6 条全过 · 主包 18 个模块 / 387.2 KB（4MB 上限的 9.5%）·
+样张重出（`minigame-pause.png` 现在 6 行）· 浏览器侧一行没动。
